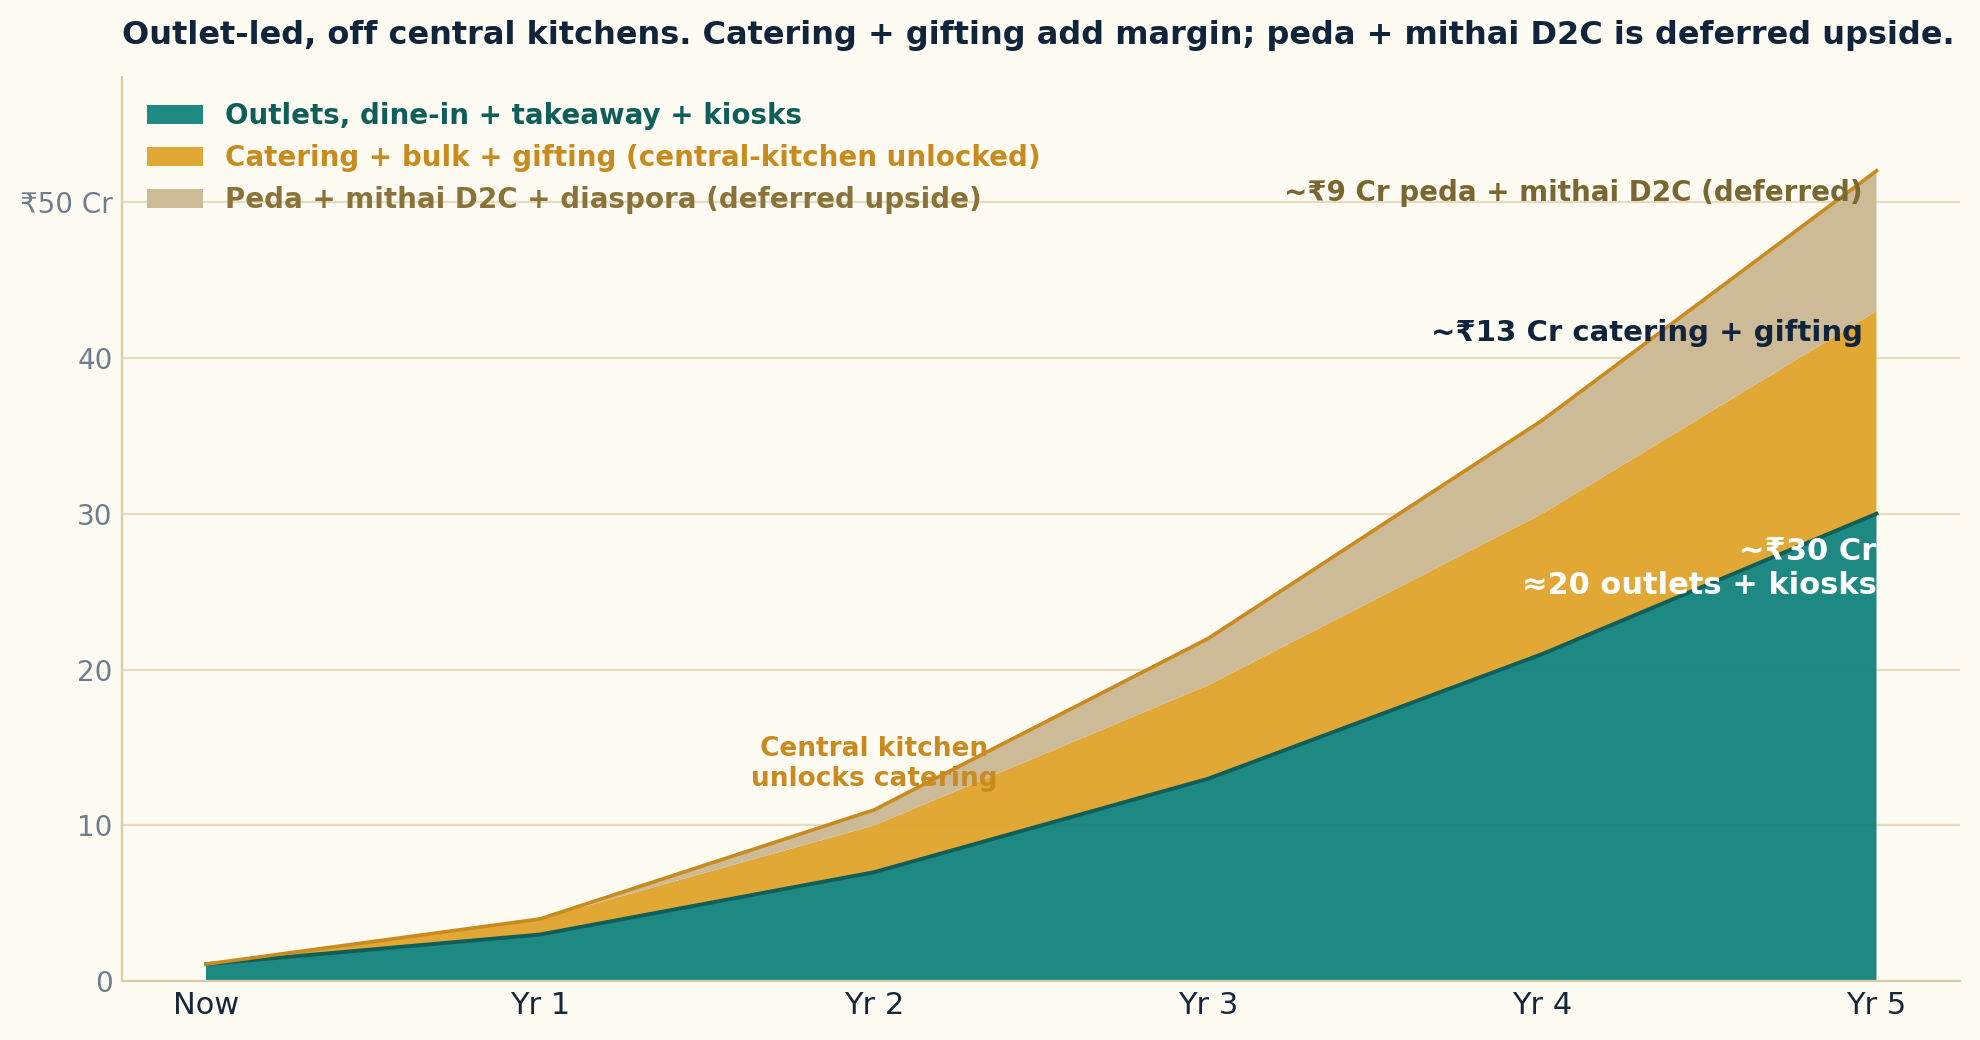
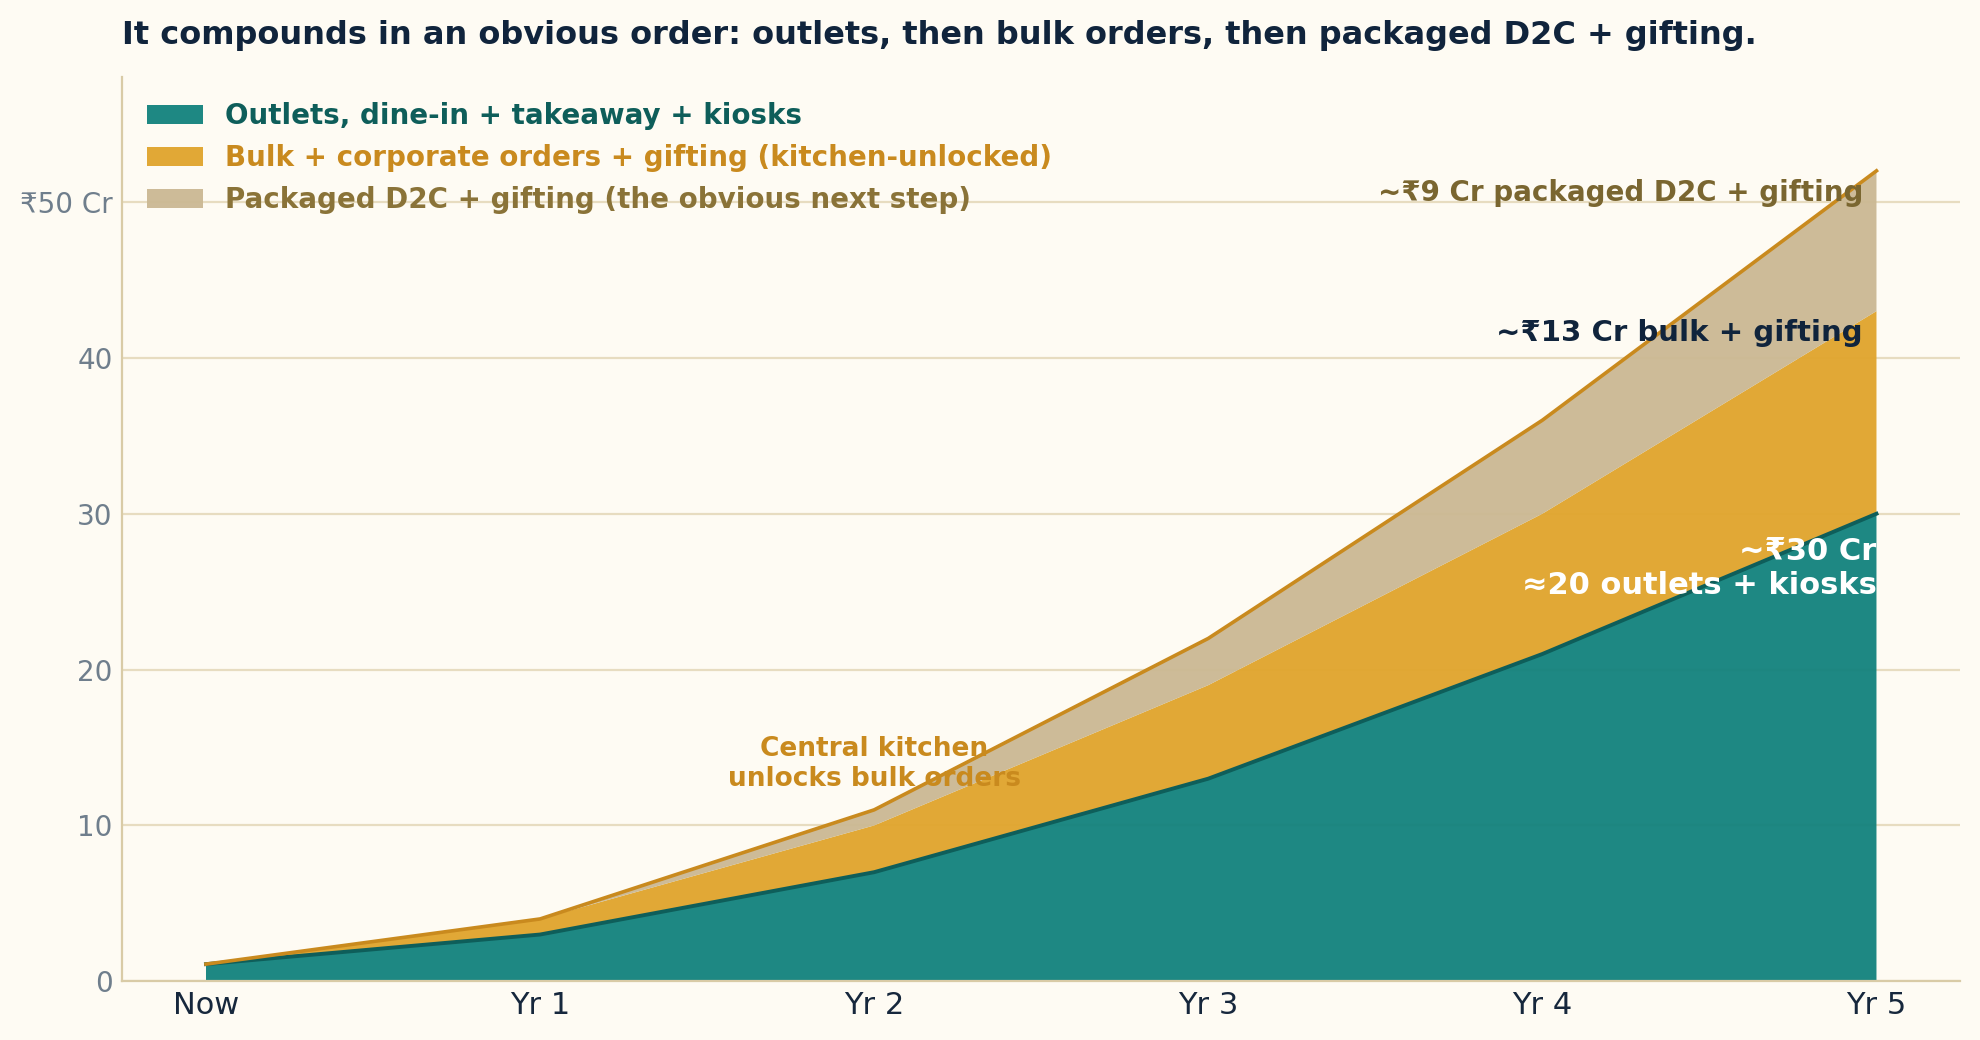
Deck refinements: central kitchen led by FRESHNESS (leverage underneath); bulk + corporate orders (not catering); D2C reframed from 'deferred' to the obvious next-step progression (outlets -> CK -> bulk -> volume -> packaging -> D2C/gifting); remove 'each new outlet bigger than first'; remove founde

diff --git a/deck/index.html b/deck/index.html
@@ -111,11 +111,11 @@ ul{margin-top:14px;padding-left:20px}li{margin:7px 0;font-size:15.5px}.dark li,.
  <div class="kick t">What we are</div>
  <h2>Not a restaurant chain. A heritage food brand that scales the proven way.</h2>
  <div class="grid g2">
-  <div class="card"><h3>The outlet engine <span style="color:var(--teal2)">· the scaler</span></h3><p>Outlets and kiosks, dine-in, takeaway and bulk. The proof, the experience, the daily cash, and where the brand and content are born. Each new outlet bigger than the first, governed density across a city, then more cities.</p></div>
-  <div class="card"><h3>The central kitchen <span style="color:var(--gold2)">· the leverage</span></h3><p>One kitchen feeds several outlets and kiosks, lets us move staff to where demand is, and unlocks the catering and gifting we turn away today. High-margin, and the reason the model compounds instead of just adding cost.</p></div>
+  <div class="card"><h3>The outlet engine <span style="color:var(--teal2)">· the scaler</span></h3><p>Outlets and kiosks, dine-in and takeaway. The proof, the experience, the daily cash, and where the brand and content are born. Governed density across a city, then more cities.</p></div>
+  <div class="card"><h3>The central kitchen <span style="color:var(--gold2)">· freshness, at scale</span></h3><p>Made fresh every day from one kitchen, served across outlets within a freshness radius, so the taste never drifts as we grow. That same kitchen lets us move staff to where demand is and take the bulk and corporate orders we turn away today. Freshness is the promise; the leverage is how it scales.</p></div>
  </div>
- <div class="chart"><img src="../assets/deck-projection.png" alt="Outlet-led 5-year trajectory: outlets ~30Cr, catering+gifting ~13Cr, packaged/diaspora a thin future layer" /></div>
- <p class="cap2">Illustrative 5-year trajectory, built off today's ~₹1.1 Cr. Outlet-led, off central kitchens, with catering and gifting as high-margin layers. Our peda and wider mithai range are a built-in D2C and gifting upside we deliberately defer, switched on once the outlets are dense, not the bet today. <span class="tag2">Existence proof: Bikanervala and Haldiram built thousands of crores on exactly this, heritage outlets + sweets + chaat + catering + gifting</span></p>
+ <div class="chart"><img src="../assets/deck-projection.png" alt="Outlet-led 5-year trajectory: outlets ~30Cr, bulk+gifting ~13Cr, packaged D2C the obvious next ~9Cr" /></div>
+ <p class="cap2">Illustrative 5-year trajectory, built off today's ~₹1.1 Cr. The order is obvious: more outlets off central kitchens, which unlock bulk and corporate orders; and as that volume builds, packaging and manufacturing make D2C and gifting the natural next step. <span class="tag2">Existence proof: Bikanervala and Haldiram built thousands of crores on exactly this, heritage outlets + sweets + chaat + bulk + gifting</span></p>
 </div></section>
 
 <section class="slide dark"><div class="wrap">
@@ -146,11 +146,11 @@ ul{margin-top:14px;padding-left:20px}li{margin:7px 0;font-size:15.5px}.dark li,.
 <section class="slide dark2"><div class="wrap">
  <div class="kick">Why now, and in what order</div>
  <h2 class="gold">The window is open, and the prize is sequenced.</h2>
- <p class="lead">Three forces have lined up at once. We capture them in order: prove the outlet model and the central-kitchen leverage first, then expand city by city, and keep packaged and diaspora as optionality.</p>
+ <p class="lead">Three forces have lined up at once. We capture them in an obvious order: prove the outlet model and the central-kitchen freshness first, expand city by city, and let packaged D2C follow as the natural next step.</p>
  <div class="tl">
-  <div class="step"><div class="when">Now</div><h4>The window is open</h4><p>Backlash against frozen, preservative food. Bhartiya pride is aspirational again. And a heritage brand can finally be built fast. We already have the proven outlet, the brand and the demand.</p></div>
-  <div class="step"><div class="when">Year 1-2</div><h4>Central kitchen + outlet density</h4><p>A central kitchen, a flagship and kiosks across Pune. Unlock the catering and gifting we turn away today. Drive our own footfall and repeat, so we own the customer, not the aggregator.</p></div>
-  <div class="step"><div class="when">Year 3+</div><h4>More cities, then D2C upside</h4><p>Replicate the proven city model elsewhere. Our peda and mithai range are built for D2C, gifting and the diaspora, a deferred upside we switch on once the outlet engine is dense, not the thing we bet the company on today.</p></div>
+  <div class="step"><div class="when">Now</div><h4>The window is open</h4><p>Backlash against frozen, preservative food. Bhartiya pride is aspirational again. And a fresh heritage brand can finally be built fast. We already have the proven outlet, the brand and the demand.</p></div>
+  <div class="step"><div class="when">Year 1-2</div><h4>Central kitchen + outlet density</h4><p>A central kitchen, a flagship and kiosks across Pune, made fresh, served fresh. Unlock the bulk and corporate orders we turn away today. Drive our own footfall and repeat, so we own the customer, not the aggregator.</p></div>
+  <div class="step"><div class="when">Year 3+</div><h4>More cities, then D2C, obviously</h4><p>Replicate the proven city model elsewhere. As that volume builds, packaging and manufacturing make peda, mithai D2C and gifting the obvious next step, a natural extension of what the kitchens already make, not a leap.</p></div>
  </div>
 </div></section>
 
@@ -159,7 +159,7 @@ ul{margin-top:14px;padding-left:20px}li{margin:7px 0;font-size:15.5px}.dark li,.
  <div class="grid g3">
   <div class="card"><h3>Authenticity that can't be faked</h3><p>Founder born in Mathura, family-run, recipes as IP, real provenance: heeng from Hathras.</p></div>
   <div class="card"><h3>The default answer in Search & AI</h3><p>A Braj-cuisine knowledge hub that makes us the source Google and LLMs cite. Already built: <a href="https://ketansharma071190.github.io/mathurawala-web/braj-kitchen/" target="_blank" rel="noopener" style="color:var(--teal2);font-weight:600;border-bottom:1px solid var(--teal2)">see the Braj Kitchen hub</a> (live preview, public domain soon).</p></div>
-  <div class="card"><h3>Central-kitchen operating leverage</h3><p>One kitchen serves several outlets and kiosks within a freshness radius. It lets us flex staff to where demand is, holds the taste steady, and unlocks catering, the things a single outlet can't do and a frozen chain can't taste like.</p></div>
+  <div class="card"><h3>Made fresh, at scale</h3><p>A central kitchen within a freshness radius of every outlet keeps the taste identical as we grow, the thing a frozen chain can never match. Underneath, it gives the operating leverage: staff flexibility, consistency, and the capacity for bulk and corporate orders.</p></div>
  </div>
 </div></section>
 
@@ -168,7 +168,7 @@ ul{margin-top:14px;padding-left:20px}li{margin:7px 0;font-size:15.5px}.dark li,.
  <div class="grid g4">
   <div class="card"><h3>01</h3><p>Own the internet face of Mathura food: content, reviews, the hub.</p></div>
   <div class="card"><h3>02</h3><p>Win the festival moments: Janmashtami, Diwali.</p></div>
-  <div class="card"><h3>03</h3><p>Central kitchen + a flagship: unlock catering, bulk and gifting, and the staff flexibility to grow.</p></div>
+  <div class="card"><h3>03</h3><p>Central kitchen + a flagship: fresh at scale, unlocking the bulk and corporate orders and the staff flexibility to grow.</p></div>
   <div class="card"><h3>04</h3><p>Outlet and kiosk density per city, off the kitchen, governed franchise only on proven SOPs.</p></div>
  </div>
 </div></section>
@@ -183,11 +183,11 @@ ul{margin-top:14px;padding-left:20px}li{margin:7px 0;font-size:15.5px}.dark li,.
    <ul>
     <li>Outlet + kiosk network across Pune, 8-10 sites: ~₹7 Cr</li>
     <li>Central-kitchen network, 2 hubs by radius: ~₹3.5 Cr</li>
-    <li>Catering + gifting capacity, equipment + occasion packaging: ~₹1.5 Cr</li>
+    <li>Bulk + corporate order capacity, equipment + packaging: ~₹1.5 Cr</li>
     <li>Brand, content + own-footfall marketing: ~₹2 Cr</li>
     <li>Working capital + ops bench + 24-30 mo runway: ~₹2.5 Cr</li>
    </ul>
-   <div class="reach"><b>Where we reach (24-30 mo):</b> 8-10 outlets and kiosks across Pune off two central kitchens, catering and gifting at scale, ~₹20-25 Cr ARR. A proven city model, ready to replicate in the next city.</div>
+   <div class="reach"><b>Where we reach (24-30 mo):</b> 8-10 outlets and kiosks across Pune off two central kitchens, bulk and corporate orders at scale, ~₹20-25 Cr ARR. A proven city model, ready to replicate in the next city.</div>
   </div>
   <div class="askcard">
    <div class="amt2">₹2 Cr</div>
@@ -198,7 +198,7 @@ ul{margin-top:14px;padding-left:20px}li{margin:7px 0;font-size:15.5px}.dark li,.
     <li>Central kitchen base: ~₹50 L</li>
     <li>Working capital + brand: ~₹25 L</li>
    </ul>
-   <div class="reach"><b>Where we reach (18-24 mo):</b> 3 outlets + central kitchen, each new one bigger than the first (~₹50k+/day), plus bulk and catering. ~₹5.5 Cr ARR, ~5x today, compounding, not linear. EBITDA at ~24%.</div>
+   <div class="reach"><b>Where we reach (18-24 mo):</b> 3 outlets + central kitchen, finally able to take the bulk and corporate orders a single outlet turns away today. ~₹5.5 Cr ARR, ~5x today, compounding. EBITDA at ~24%.</div>
   </div>
  </div>
  <p class="lead" style="margin-top:20px;font-size:16px">Structure flexible (equity / CCD / SPV / revenue-share), founder-controlled. The physical outlets can be SPV-funded so parent equity stays with believers in the brand. We never lead with a valuation; we let demand set it.</p>
@@ -208,9 +208,7 @@ ul{margin-top:14px;padding-left:20px}li{margin:7px 0;font-size:15.5px}.dark li,.
  <div class="kick">Founder</div>
  <h2 class="gold">Ketan Sharma</h2>
  <div class="sub-role">Mathura-born founder · a 0→1 operator who has scaled startups across APAC</div>
- <p class="lead">Mathura-born, and a builder. Ketan spent ~10 years taking early-stage startups from zero to scale across APAC, a YC-backed founding team and a $0→$2M ARR run among them, before turning to the thing he cares about most: building the food of his own city into a brand worthy of it. A venture operator's discipline, applied to a 5,000-year-old kitchen, and a family that still holds him to the taste.</p>
- <p class="foot">Founder note: Ketan to finalise this wording. Detailed credentials available on request and on LinkedIn.</p>
-</div></section>
+ <p class="lead">Mathura-born, and a builder. Ketan spent ~10 years taking early-stage startups from zero to scale across APAC, a YC-backed founding team and a $0→$2M ARR run among them, before turning to the thing he cares about most: building the food of his own city into a brand worthy of it. A venture operator's discipline, applied to a 5,000-year-old kitchen, and a family that still holds him to the taste.</p></div></section>
 
 <section class="slide dark" style="text-align:center"><div class="wrap">
  <h2 class="big">Bharat's original food deserves a global brand.</h2>
